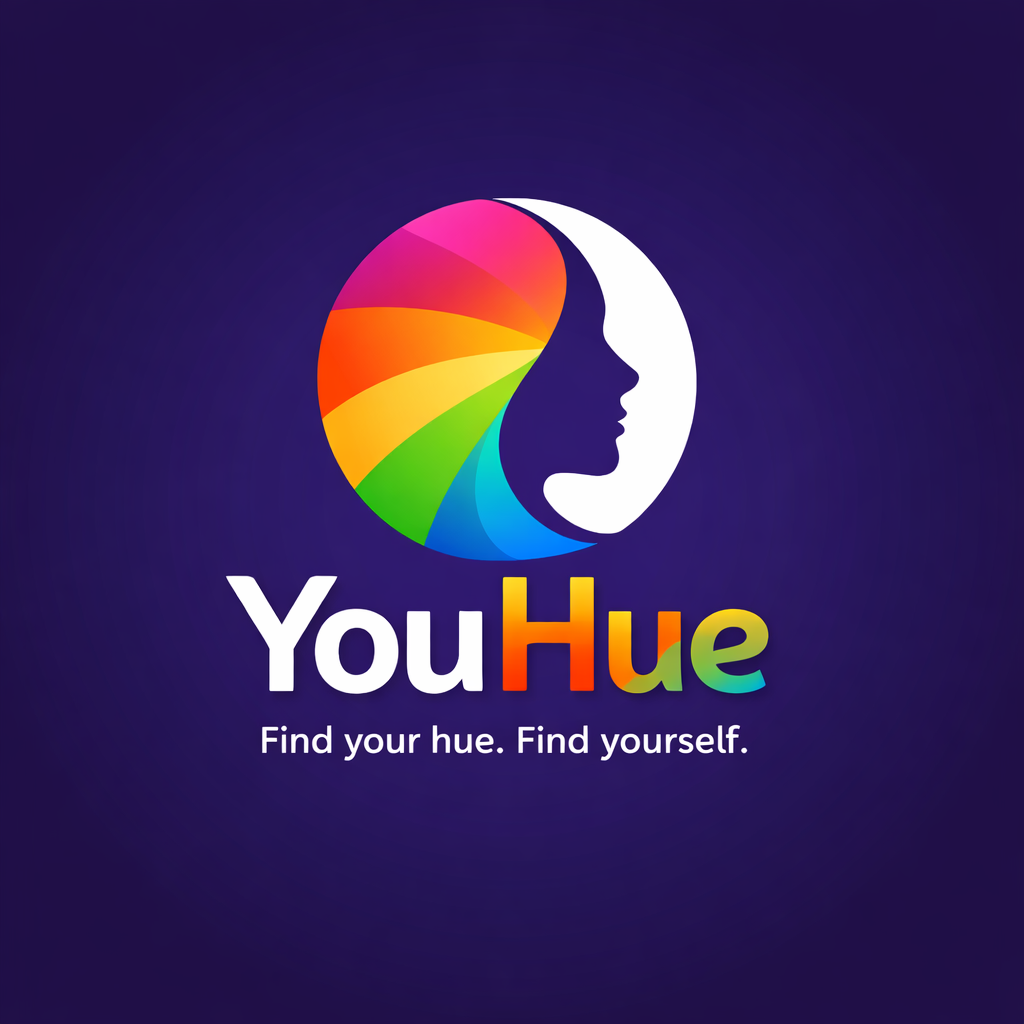
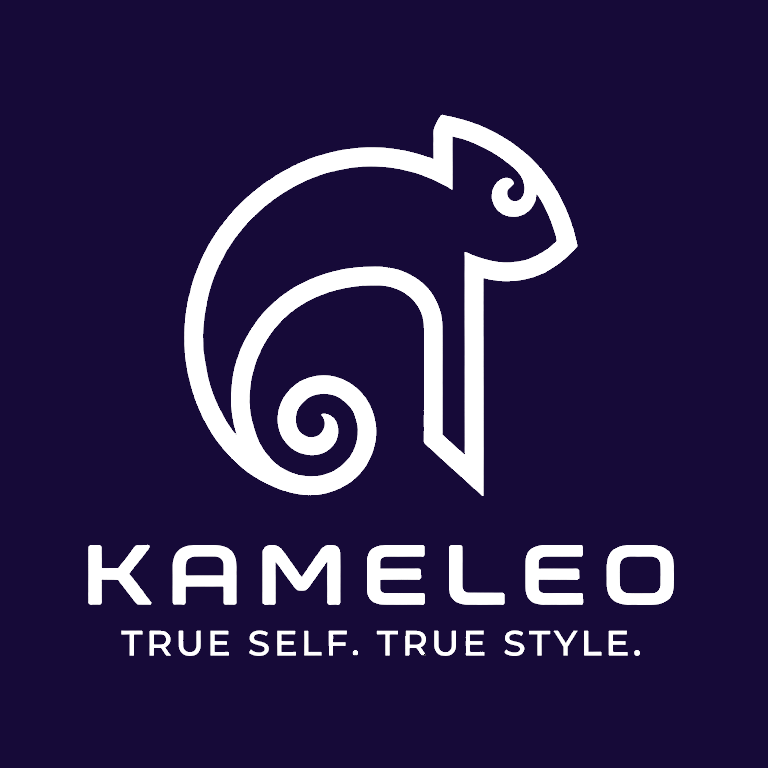
rebrand to kameleo

diff --git a/index.html b/index.html
@@ -3,11 +3,11 @@
 <head>
   <meta charset="UTF-8" />
   <meta name="viewport" content="width=device-width, initial-scale=1.0" />
-  <meta name="description" content="YouHue uses AI to discover your colour season and build a wardrobe that actually works for you." />
-  <meta property="og:title" content="YouHue – Dress in Your Best Colours" />
+  <meta name="description" content="Kameleo uses AI to discover your colour season and build a wardrobe that actually works for you." />
+  <meta property="og:title" content="Kameleo – Dress in Your Best Colours" />
   <meta property="og:description" content="AI-powered colour season analysis + smart wardrobe for iOS." />
   <meta property="og:type" content="website" />
-  <title>YouHue – Dress in Your Best Colours</title>
+  <title>Kameleo – Dress in Your Best Colours</title>
 
   <link rel="preconnect" href="https://fonts.googleapis.com" />
   <link rel="preconnect" href="https://fonts.gstatic.com" crossorigin />
@@ -555,7 +555,7 @@
 <nav>
   <a href="#" class="logo">
     <div class="logo-mark">🎨</div>
-    <span class="logo-text">YouHue</span>
+    <span class="logo-text">Kameleo</span>
   </a>
   <button class="nav-cta" onclick="openWaitlist()">Join Waitlist ✨</button>
 </nav>
@@ -571,7 +571,7 @@
   <h1>Dress in Colours<br>That Are <em>Made for You</em></h1>
 
   <p>
-    YouHue analyses your natural colouring and builds a personalised wardrobe
+    Kameleo analyses your natural colouring and builds a personalised wardrobe
     so every outfit you wear is a 10/10.
   </p>
 
@@ -662,7 +662,7 @@
     <div class="features-head">
       <span class="tag reveal">🚀 Features</span>
       <h2 class="sec-title reveal d1">Everything You Need to <span>Glow Up</span></h2>
-      <p class="sec-sub reveal d2">From AI selfie analysis to outfit suggestions — YouHue has the whole vibe sorted.</p>
+      <p class="sec-sub reveal d2">From AI selfie analysis to outfit suggestions — Kameleo has the whole vibe sorted.</p>
     </div>
     <div class="features-grid">
       <div class="feat-card reveal">
@@ -695,7 +695,7 @@
     <div class="steps-head">
       <span class="tag reveal">✌️ How It Works</span>
       <h2 class="sec-title reveal d1">Up and Running in <span>3 Minutes</span></h2>
-      <p class="sec-sub reveal d2">No colour theory degree required. YouHue does the hard part.</p>
+      <p class="sec-sub reveal d2">No colour theory degree required. Kameleo does the hard part.</p>
     </div>
     <div class="steps-grid">
       <div class="step reveal">
@@ -736,7 +736,7 @@
 <footer>
   <a href="#" class="logo" style="text-decoration:none;">
     <div class="logo-mark">🎨</div>
-    <span class="logo-text">YouHue</span>
+    <span class="logo-text">Kameleo</span>
   </a>
   <p>Made with 💜 to help you dress in your best colours.</p>
   <p>
@@ -754,7 +754,7 @@
     <div class="modal-form-wrap" id="modal-form-wrap">
       <div class="modal-emoji">🎨</div>
       <h2>Be First to<br>Find Your Hue</h2>
-      <p>Drop your email and we'll ping you the second YouHue lands on the App Store.</p>
+      <p>Drop your email and we'll ping you the second Kameleo lands on the App Store.</p>
       <form class="waitlist-form" onsubmit="submitWaitlist(event)">
         <input
           type="email"
@@ -772,7 +772,7 @@
     <div class="modal-success" id="modal-success">
       <div class="modal-emoji">🎉</div>
       <h2>You're on the list!</h2>
-      <p>We'll hit you up the moment YouHue launches. Get ready to find your colours.</p>
+      <p>We'll hit you up the moment Kameleo launches. Get ready to find your colours.</p>
     </div>
   </div>
 </div>

diff --git a/auth/callback/index.html b/auth/callback/index.html
@@ -3,7 +3,7 @@
 <head>
   <meta charset="UTF-8" />
   <meta name="viewport" content="width=device-width, initial-scale=1.0" />
-  <title>YouHue – Confirming your email</title>
+  <title>Kameleo – Confirming your email</title>
 
   <link rel="preconnect" href="https://fonts.googleapis.com" />
   <link rel="preconnect" href="https://fonts.gstatic.com" crossorigin />
@@ -117,12 +117,12 @@
 <body>
 
 <div class="card">
-  <div class="logo-mark"><img src="../../assets/icon.png" alt="YouHue" /></div>
+  <div class="logo-mark"><img src="../../assets/icon.png" alt="Kameleo" /></div>
 
   <!-- Loading state (default) -->
   <div id="state-loading">
     <div class="spinner"></div>
-    <h1>Opening YouHue…</h1>
+    <h1>Opening Kameleo…</h1>
     <p class="sub">Hang tight — we're confirming your email and launching the app.</p>
   </div>
 
@@ -130,8 +130,8 @@
   <div id="state-fallback">
     <div class="status-icon">📱</div>
     <h1>Email Confirmed!</h1>
-    <p class="sub">Your email is verified. If YouHue didn't open automatically, tap the button below.</p>
-    <a id="open-app-btn" href="#" class="btn">Open YouHue</a>
+    <p class="sub">Your email is verified. If Kameleo didn't open automatically, tap the button below.</p>
+    <a id="open-app-btn" href="#" class="btn">Open Kameleo</a>
     <br />
     <span class="btn-ghost">Coming Soon</span>
   </div>
@@ -141,7 +141,7 @@
     <div class="status-icon">🤔</div>
     <h1>Hmm, something's off</h1>
     <p class="sub">This link looks invalid or has already been used. Try signing up again.</p>
-    <a href="https://jaydonchion.github.io/youhue_landing/" class="btn">Go to YouHue</a>
+    <a href="https://jaydonchion.github.io/youhue_landing/" class="btn">Go to Kameleo</a>
   </div>
 </div>
 